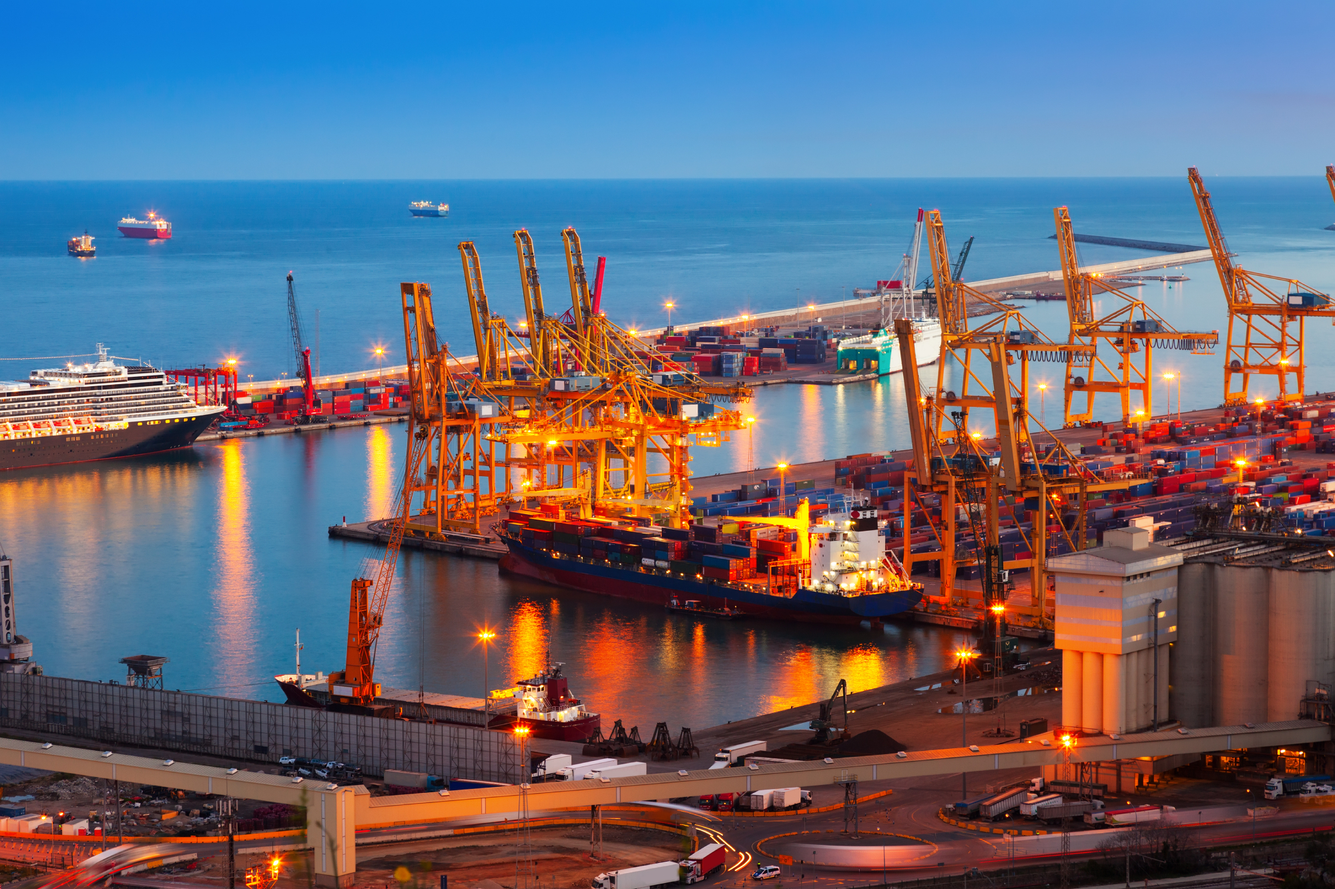
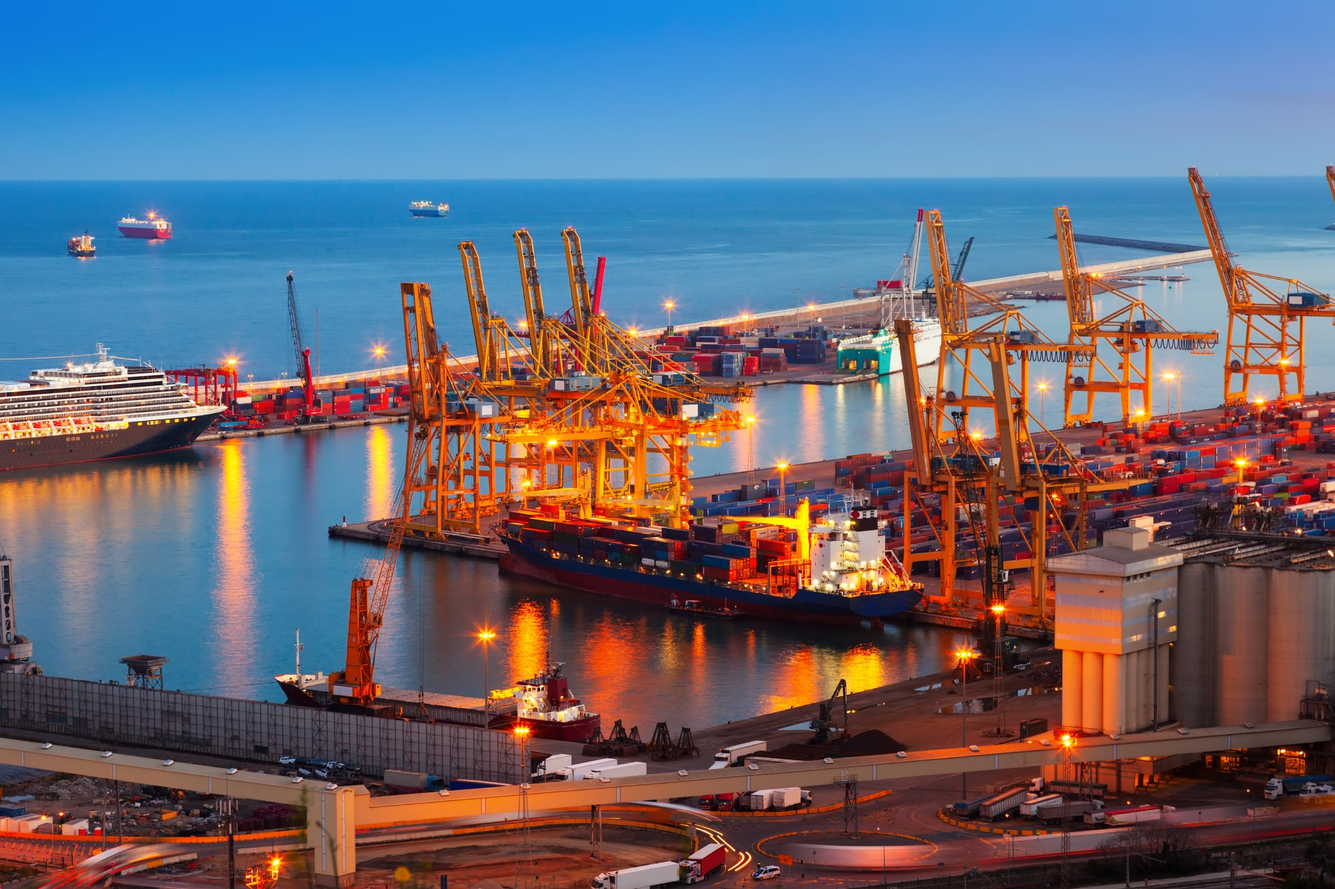
Optimize images

diff --git a/index.html b/index.html
@@ -34,15 +34,15 @@
         <div class="conteúdo">
           <div>
             <p>
-              Contando com uma grande rede de fornecedores, Sortida Cascata busca
-              em mais de 15 países em todo o mundo as melhores possibilidades de
-              negócios para o desenvolvimento de um mercado com produtos de extrema
-              qualidade e de forma competitiva.
+              Empresa portuguesa, contando com uma grande rede de fornecedores,
+              Sortida Cascata busca em mais de 15 países em todo o mundo as
+              melhores possibilidades de negócios para o desenvolvimento de um
+              mercado com produtos de extrema qualidade e de forma competitiva.
             </p>
             <p>
-              Com intuito de oferecer as melhores possibilidades na compra e venda
-              de alimentos, trabalhamos 24 horas por dia, 7
-              dias na semana, 12 meses ao ano, para prospectar possibilidades,
+              Com intuito de oferecer as melhores possibilidades na compra e
+              venda de alimentos, trabalhamos 24 horas por dia, 7 dias na
+              semana, 12 meses ao ano, para prospectar possibilidades,
               preços e condições impares que promovam o desenvolvimento comercial
               da empresa e a satisfação com alimentos ricos e de qualidade.
             </p>
@@ -54,6 +54,8 @@
           <div>
             Comercializamos:
             <ul>
+              <li>Carnes</li>
+              <li>Grãos / Cereais</li>
               <li>Peixes</li>
               <li>Açúcar</li>
               <li>Farinha de Trigo</li>
